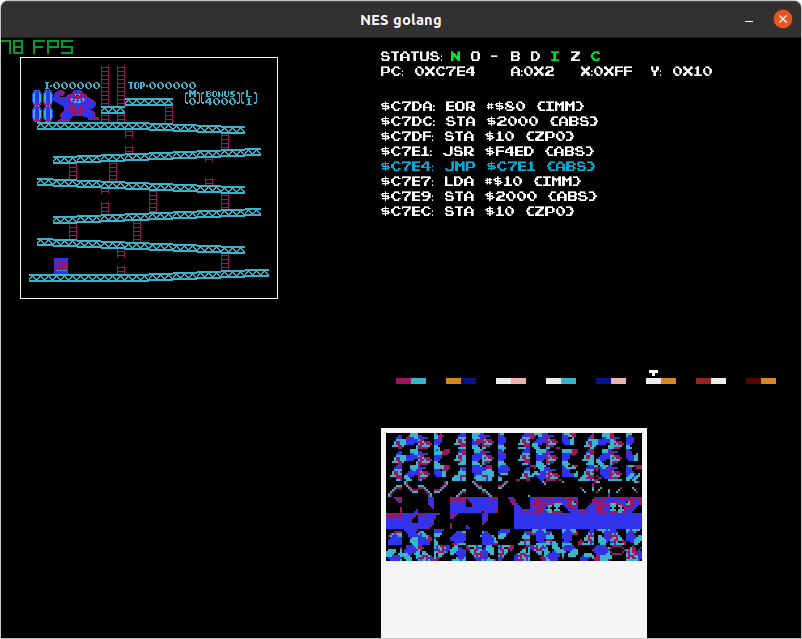
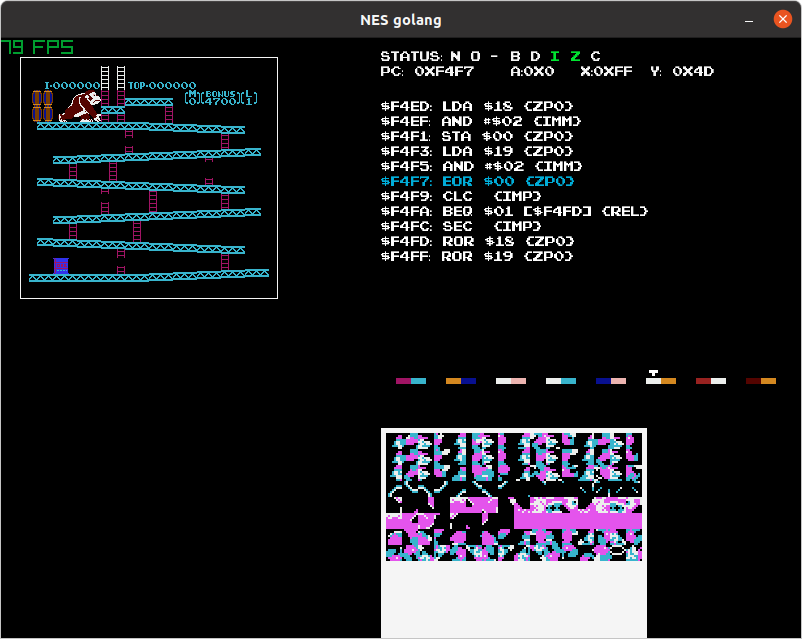
Fix tile rendering: upper and lower bytes in nametable were flipped.

diff --git a/src/nes/ppu/render.go b/src/nes/ppu/render.go
@@ -72,10 +72,24 @@ func (ppu *Ppu2c02) renderSprites() {
 // Finds the palette id to be used given a background Tile coordinate
 func backgroundPalette(tileColumn uint8, tileRow uint8, nameTable *[2 * NAMETABLE_SIZE]byte) byte {
 	metaTilesByRow := uint8(8)
-	attributeTableAddress := types.Address(0x03C0)
+	attributeTableAddress := types.Address(0x23C0 - 0x2000)
+
 	attributeTableIndex := (tileRow/4)*metaTilesByRow + tileColumn/4
 
 	attrValue := nameTable[attributeTableAddress+types.Address(attributeTableIndex)]
+
+	// Each byte controls the palette of a 32×32 pixel or 4×4 tile part of the nametable and is divided into four 2-bit areas
+	// 7654 3210
+	// |||| ||++- Color bits 1-0 for top left quadrant of this byte
+	// |||| ++--- Color bits 3-2 for top right quadrant of this byte
+	// ||++------ Color bits 5-4 for bottom left quadrant of this byte
+	// ++-------- Color bits 7-6 for bottom right quadrant of this byte
+	//
+	//	+-------+
+	//  | 0 | 1 |
+	//	+---+---+
+	//  | 2 | 3 |
+	//  +---+---+
 
 	a := tileColumn % 4 / 2
 	b := tileRow % 4 / 2
@@ -97,18 +111,20 @@ func (ppu *Ppu2c02) findTile(tileID byte, patternTable byte, tileColumn uint8, t
 	bankAddress := 0x1000 * int(patternTable)
 	offsetAddress := types.Address(bankAddress + int(tileID)*16)
 	tile := image.NewRGBA(image.Rect(0, 0, TILE_WIDTH, TILE_HEIGHT))
+
+	var palette byte
+	if forcedPalette != 255 {
+		palette = forcedPalette
+	} else {
+		palette = backgroundPalette(tileColumn, tileRow, &ppu.nameTables)
+	}
+
 	for y := 0; y <= 7; y++ {
-		upper := ppu.Read(offsetAddress + types.Address(y))
-		lower := ppu.Read(offsetAddress + types.Address(y+8))
+		lower := ppu.Read(offsetAddress + types.Address(y))
+		upper := ppu.Read(offsetAddress + types.Address(y+8))
 
 		for x := 0; x <= 7; x++ {
 			value := (1&upper)<<1 | (1 & lower)
-			var palette byte
-			if forcedPalette != 255 {
-				palette = forcedPalette
-			} else {
-				palette = backgroundPalette(tileColumn, tileRow, &ppu.nameTables)
-			}
 			rgb := ppu.GetColorFromPaletteRam(palette, value)
 			tile.Set(7-x, y, rgb)
 			upper >>= 1

diff --git a/README.md b/README.md
@@ -21,9 +21,11 @@
   <img src="var/visual%20evolution/03-ppu-background/nestest-background-1.png" width="30%" alt="Renders background nestest"/>
   <img src="var/visual%20evolution/03-ppu-background/nestest-background-2.png" width="30%" alt="Renders background nestest"/>
   <img src="var/visual%20evolution/03-ppu-background/pacman.png" width="30%" alt="Renders background nestest"/>
-  <img src="var/visual%20evolution/03-ppu-background/donkey-kong.png" width="30%" alt="Renders background nestest"/>
   <img src="var/visual%20evolution/03-ppu-background/supermariobros.png" width="30%" alt="Renders background super mario bros"/>
-  <img src="var/visual%20evolution/03-ppu-background/donkey-kong-2.png" width="30%" alt="Renders background donkey kong, optimizations allow to see demo mode"/>
-  <img src="var/visual%20evolution/03-ppu-background/donkey-kong-3.png" width="30%" alt="Renders background donkey kong, small fixes in colors"/>
-  <img src="var/visual%20evolution/03-ppu-background/donkey-kong-4.png" width="30%" alt="Renders background donkey kong, small fixes in colors"/>
+<img src="var/visual%20evolution/03-ppu-background/donkey-kong-title-1.png" width="30%" alt="Renders background donkey kong, title screen"/>
+  <img src="var/visual%20evolution/03-ppu-background/donkey-kong-1.png" width="30%" alt="Renders background donkey kong, optimizations allow to see demo mode"/>
+  <img src="var/visual%20evolution/03-ppu-background/donkey-kong-title-2.png" width="30%" alt="Renders background donkey kong, title screen, small fixes in colors"/>
+  <img src="var/visual%20evolution/03-ppu-background/donkey-kong-2.png" width="30%" alt="Renders background donkey kong, fixes in colors"/>
+  <img src="var/visual%20evolution/03-ppu-background/donkey-kong-title-3.png" width="30%" alt="Renders donkey kong title, colors finally fixed"/>
+  <img src="var/visual%20evolution/03-ppu-background/donkey-kong-3.png" width="30%" alt="Renders donkey kong, colors finally fixed"/>
 </p>
